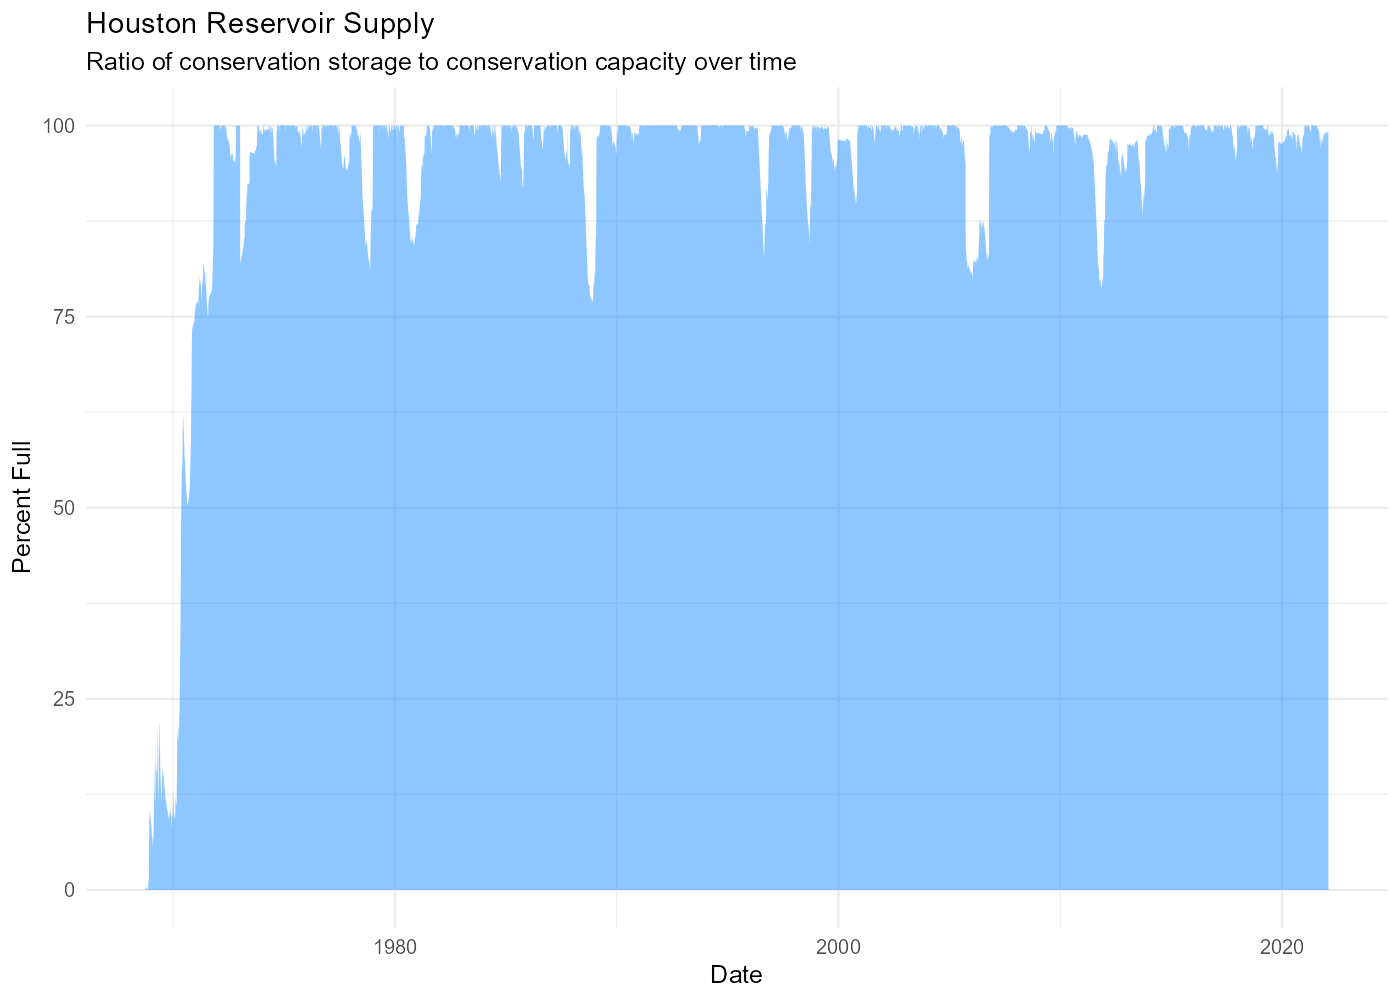
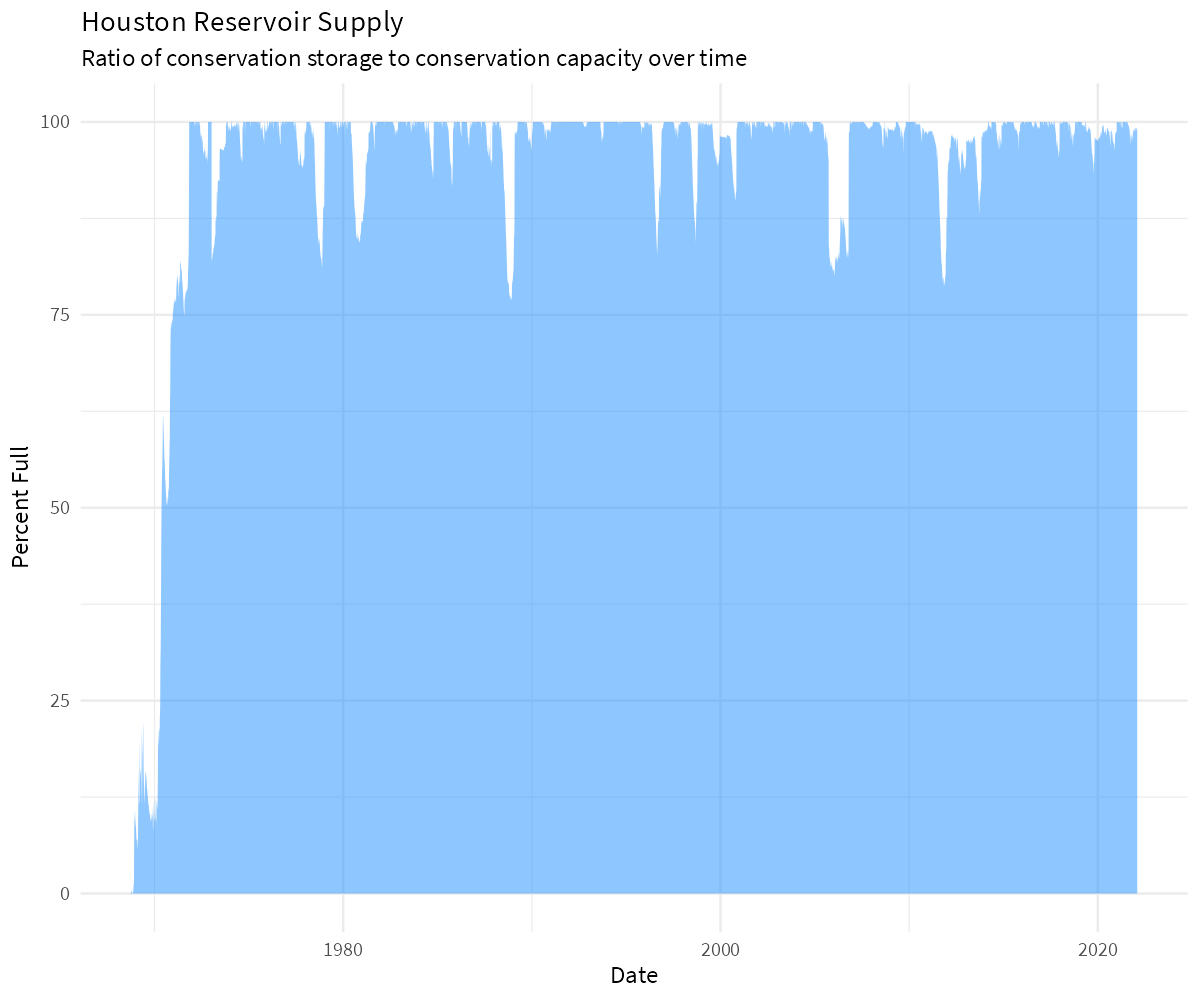
update Readme

diff --git a/README.md b/README.md
@@ -6,6 +6,7 @@
 <!-- badges: start -->
 
 [![lifecycle](https://img.shields.io/badge/lifecycle-experimental-orange.svg)](https://www.tidyverse.org/lifecycle/#experimental)
+[![R-CMD-check](https://github.com/TxWRI/wd4tx/actions/workflows/check-standard.yaml/badge.svg)](https://github.com/TxWRI/wd4tx/actions/workflows/check-standard.yaml)
 [![license](https://img.shields.io/badge/license-MIT%20+%20file%20LICENSE-lightgrey.svg)](https://choosealicense.com/)
 <!-- badges: end -->
 
@@ -67,7 +68,7 @@ ggplot(df) +
   labs(y = "Percent Full", x = "Date",
        title = "Lake Limestone",
        subtitle = "Ratio of conservation storage to conservation capacity over time") +
-  theme_minimal(base_family = "Arial Narrow",
+  theme_minimal(base_family = "Source Sans Pro",
                 base_size = 9)
 ```
 
@@ -88,7 +89,7 @@ ggplot(df) +
   labs(y = "Percent Full", x = "Date",
        title = "Houston Reservoir Supply",
        subtitle = "Ratio of conservation storage to conservation capacity over time") +
-  theme_minimal(base_family = "Arial Narrow",
+  theme_minimal(base_family = "Source Sans Pro",
                 base_size = 9)
 ```
 
@@ -129,7 +130,7 @@ df
 ``` r
 ggplot(df) +
   geom_sf(aes(color = status, fill = status), alpha = 0.5) +
-  theme_void(base_family = "Arial Narrow",
+  theme_void(base_family = "Source Sans Pro",
              base_size = 9)
 ```
 
@@ -146,7 +147,7 @@ ggplot(df) +
   scale_y_reverse() +
   labs(y = "Water Level (ft below surface)",
        x = "Date") +
-  theme_minimal(base_family = "Arial Narrow",
+  theme_minimal(base_family = "Source Sans Pro",
                 base_size = 9)
 ```
 
@@ -166,7 +167,7 @@ df <- df %>%
 
 ggplot(df) +
   geom_line(aes(period, inches, color = label, linetype = label)) +
-  theme_minimal(base_family = "Arial Narrow",
+  theme_minimal(base_family = "Source Sans Pro",
                 base_size = 9) +
   theme(legend.position = "bottom",
         legend.direction = "horizontal",
@@ -237,7 +238,7 @@ df <- df %>%
 
 ggplot(df) +
   geom_line(aes(date, fresh_in)) +
-    theme_minimal(base_family = "Arial Narrow",
+    theme_minimal(base_family = "Source Sans Pro",
                 base_size = 9) +
   labs(x = "Date", y = "Volume (acre-ft)") +
   theme(legend.position = "bottom",
